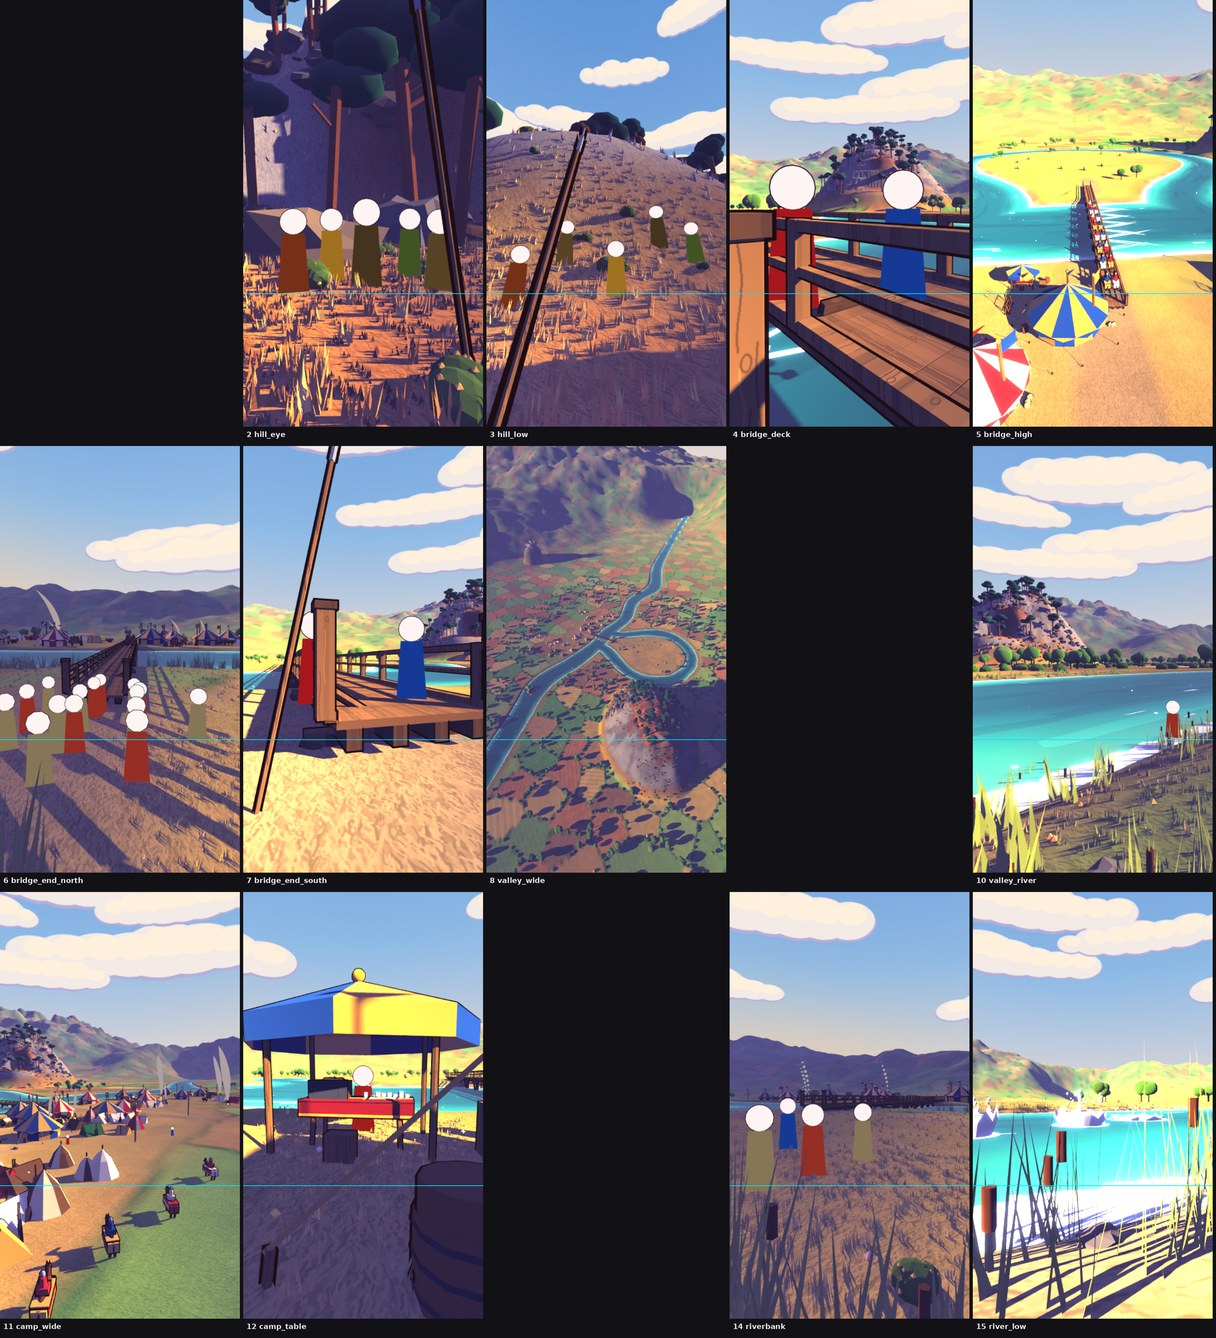
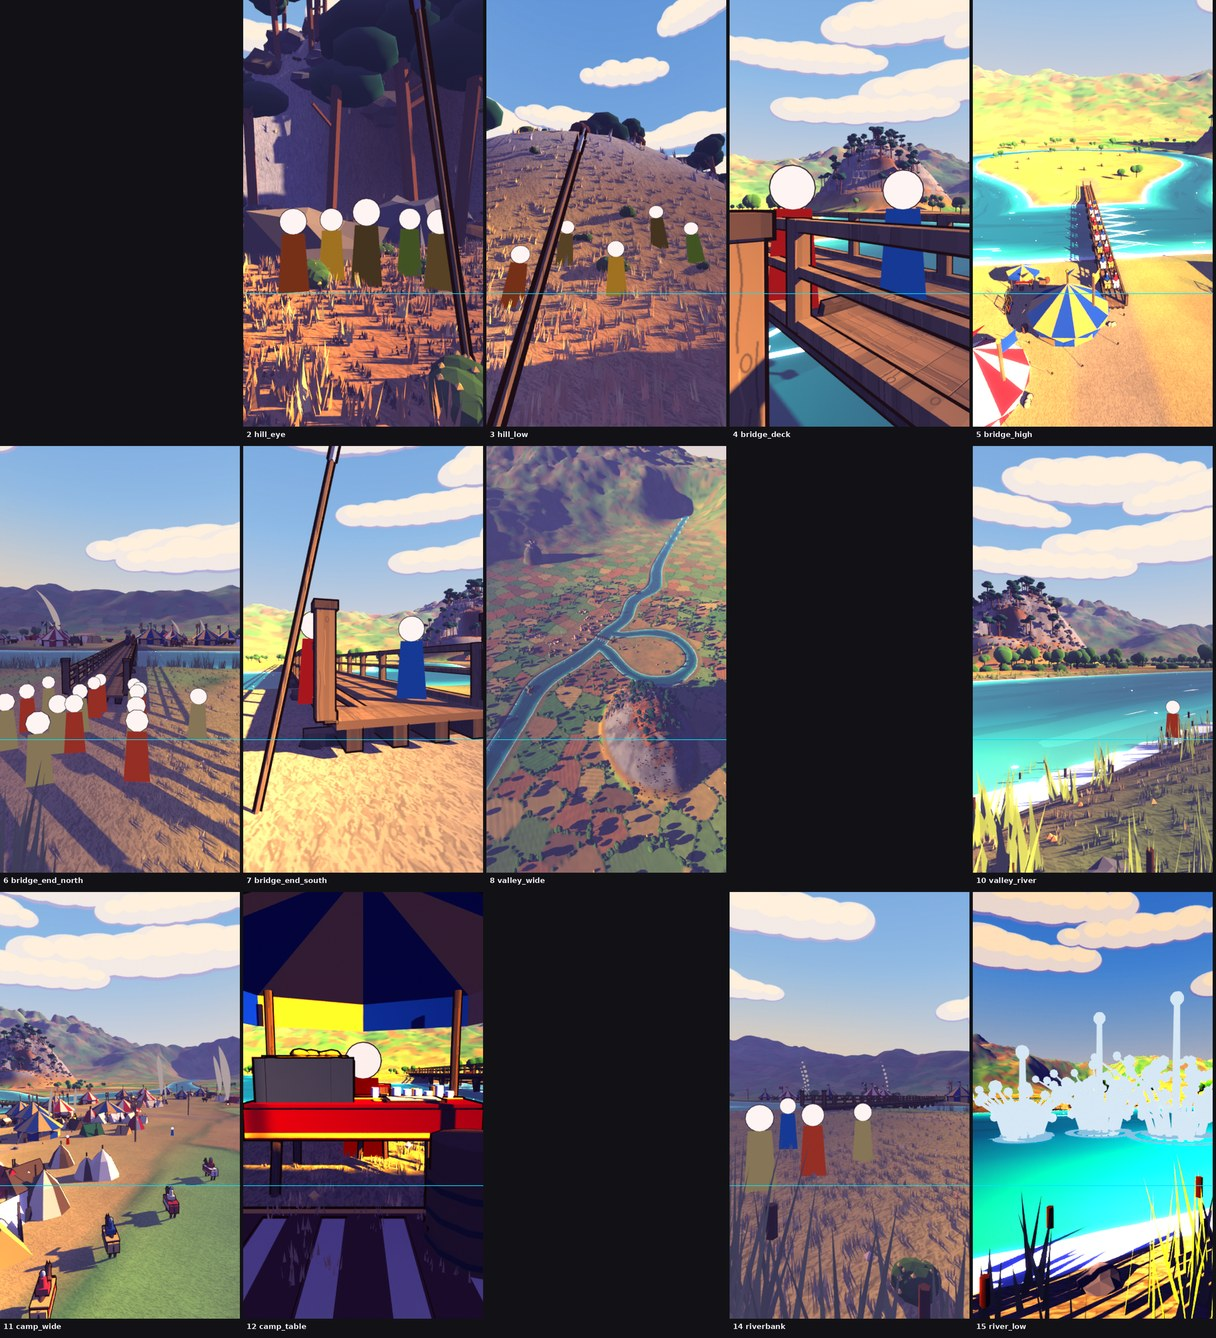
film21: set3d21 phase B WIP
Claude-Session: https://claude.ai/code/session_017iwyCsej5sN2YnHCfQQb4Y

Changed region(s): [[0.7812, 0.6435, 1.0, 1.0], [0.1875, 0.6435, 0.4062, 1.0]]

diff --git a/film/v3/set3d21/stirling.py b/film/v3/set3d21/stirling.py
@@ -987,16 +987,18 @@ def table_set(A, B, c, yaw, rs):
         # ledger (no text): cover + two pages
         B.box('leather', (0.55, -0.22, 1.012), (0.6, 0.4, 0.03)); B.box('cream', (0.42, -0.22, 1.032), (0.28, 0.36, 0.015), rot=(0, 0, 2)); B.box('cream', (0.68, -0.22, 1.032), (0.28, 0.36, 0.015), rot=(0, 0, -2))
         for i in range(5): B.box('gold', (0.55, -0.4 + i * 0.1, 0.86), (0.0, 0.0, 0.0)) if False else None
-        # canopy: four poles + a striped roof
+        # canopy: four poles + a striped roof (its own batch: the roof casts no shadow, so the table is lit)
+        Bc = Batch(34); Bc.stack[-1] = B.stack[-1].copy()
         for sx in (-1.5, 1.5):
             for sy in (-1.2, 1.2): B.rod('wood', (sx, sy, -0.1), (sx, sy, 2.6), 0.055, seg=6)
         seg = 8; r = 2.5; hz = 2.6
         for i in range(seg):
             a0 = 2 * math.pi * i / seg + math.pi / 4; a1 = 2 * math.pi * (i + 1) / seg + math.pi / 4; m = ('t_blue', 't_gold')[i % 2]
-            B.mesh(m, [(r * 1.0 * math.cos(a0) * 1.0, r * 0.82 * math.sin(a0), hz), (r * math.cos(a1), r * 0.82 * math.sin(a1), hz), (0, 0, hz + 0.9)], [(0, 1, 2)], False)
-            B.mesh(m, [(r * math.cos(a0), r * 0.82 * math.sin(a0), hz), (r * math.cos(a1), r * 0.82 * math.sin(a1), hz), (r * math.cos(a1), r * 0.82 * math.sin(a1), hz - 0.5), (r * math.cos(a0), r * 0.82 * math.sin(a0), hz - 0.5)], [(0, 1, 2, 3)], False)
-        B.sphere('gold', (0, 0, hz + 1.0), 0.14, seg=8, rings=5)
+            Bc.mesh(m, [(r * 1.0 * math.cos(a0) * 1.0, r * 0.82 * math.sin(a0), hz), (r * math.cos(a1), r * 0.82 * math.sin(a1), hz), (0, 0, hz + 0.9)], [(0, 1, 2)], False)
+            Bc.mesh(m, [(r * math.cos(a0), r * 0.82 * math.sin(a0), hz), (r * math.cos(a1), r * 0.82 * math.sin(a1), hz), (r * math.cos(a1), r * 0.82 * math.sin(a1), hz - 0.5), (r * math.cos(a0), r * 0.82 * math.sin(a0), hz - 0.5)], [(0, 1, 2, 3)], False)
+        Bc.sphere('gold', (0, 0, hz + 1.0), 0.14, seg=8, rings=5)
         with Bl.xf((0, 0, 0)): pass
+    Bc.finalize('table_canopy', shadow=False)
     # chest lid: own object, hinge at the back-top edge of the chest, open 72 degrees
     cx, cy_ = -0.62, -0.05; hp = B.wpt((cx, cy_ + 0.31, 1.47)); Bl.box('barrel', (0, -0.31, 0.045), (1.0, 0.64, 0.09)); Bl.box('iron', (0.34, -0.31, 0.055), (0.08, 0.66, 0.11)); Bl.box('iron', (-0.34, -0.31, 0.055), (0.08, 0.66, 0.11)); Bl.box('gold', (0, -0.31, 0.1), (0.8, 0.5, 0.02))
     lid = Bl.finalize('chest_lid', loc=hp)[0]; lid.rotation_euler = (math.radians(-72), 0, math.radians(yaw)); lid.rotation_mode = 'XYZ'
@@ -1120,7 +1122,7 @@ def build_camp(A, pr):
         B.rod('rope', (xs[0] - 2.6, y + 0.2, zl[0] + 1.5), (xs[-1] - 2.6, y + 0.2, zl[-1] + 1.5), 0.02, seg=3)
     # Cressingham's money table by the road, west side, facing the river
     tx, toff = -13.0, 8.5; ty = float(bank_y(tx)) - toff; tz = float(ground(tx, ty)); table_set(A, B, (tx, ty, tz), 0.0, rs); camp['table'] = (tx, ty, tz)
-    stool_p = (tx - 0.1, ty - 1.3, tz); B.box('wood', (stool_p[0], stool_p[1], tz + 0.25), (0.5, 0.4, 0.5)); B.box('wood', (tx + 2.9, ty - 0.6, tz + 0.5), (0.9, 0.6, 1.0)); barrel(B, (tx + 3.5, ty + 0.5, tz))
+    barrel(B, (tx + 3.5, ty + 0.5, tz))
     for (x, off) in [(-72, 20), (70, 26), (-104, 44), (40, 70), (96, 50)]:
         y = float(bank_y(x)) - off
         if free(x, y, 3): campfire(B, Bs, (x, y, float(ground(x, y))), rs); smoke_column(Bs, x, y, float(ground(x, y)), rs, h=24.0, r0=0.5); camp.setdefault('fires', []).append((x, y))
@@ -1556,8 +1558,8 @@ def table_extras(A, pr):
     for sgn in (-1, 1): B.box('gold', (tx + sgn * 1.7, ty - 2.0, tz + 0.03), (0.07, 2.4, 0.01))
     for i in range(6): B.box('t_cream', (tx - 1.3 + 0.52 * i, ty - 2.0, tz + 0.032), (0.2, 2.1, 0.005))
     B.finalize('table_extras')
-_mk('camp_table', loc='camp', cam=(-13.0, -30.0, 0.0), cam_dz=1.3, look=(-13.0, -26.5, 1.15), lens=22.0, sd=5.0, over=dict(_OVR), camp_fg=table_extras,
-    marks_spec=[('cress', 'cressingham', 4.0, 360)], fg_list=[('barrel', 1.8, 720), ('rope', 1.8, 20)], veg=dict(_VEG, half=22), drift='push 8 %/s; hooks: set_scale_tip(A, deg), set_chest_lid(A, deg)')
+_mk('camp_table', loc='camp', cam=(-13.0, -30.0, 0.0), cam_dz=1.3, look=(-13.0, -26.5, 1.55), lens=22.0, sd=5.0, over=dict(_OVR), camp_fg=table_extras,
+    marks_spec=[('cress', 'cressingham', 4.0, 360)], fg_list=[('barrel', 1.8, 720)], veg=dict(_VEG, half=22), drift='push 8 %/s; hooks: set_scale_tip(A, deg), set_chest_lid(A, deg)')
 _mk('riverbank', loc='riverbank', cam=(-17.0, 60.0, 0.0), cam_dz=1.8, look=(0.0, 30.0, 1.6), lens=22.0, sd=10.0, over=dict(_OVR, reed_k=0.8),
     marks_spec=[('e1', 'foot', 5.0, 90), ('e2', 'foot:foot_r', 6.0, 250), ('e3', 'foot', 7.5, 400), ('e4', 'knight:knight_b', 9.0, 175)], fg_list=[('reeds', 1.6, 640), ('reeds', 2.0, 40), ('gorse', 2.4, 560, 0.4)],
     veg=dict(_VEG, half=30, reeds=[(2, 40, 600)]), drift='slide 40 px/s + push; water on the right for the jumps (splash())')

diff --git a/film/v3/set3d21/t_hooks.py b/film/v3/set3d21/t_hooks.py
@@ -25,9 +25,9 @@ chk('flow offset moves', f0[0] != f1[0]); chk('glitter phase moves', f0[1] != f1
 be = bpy.data.objects[A['scale_beam']]; K.set_scale_tip(A, 0.0); r0 = be.rotation_euler[1]; K.set_scale_tip(A, 12.0); chk('scale tips', abs(be.rotation_euler[1] - r0) > 0.1); bv0 = verts(be); K.set_scale_tip(A, -12.0); chk('scale beam mesh moves', float(np.abs(verts(be) - bv0).max()) > 0.01)
 lid = bpy.data.objects[A['chest_lid']]; K.set_chest_lid(A, 72.0); l0 = lid.rotation_euler[0]; K.set_chest_lid(A, 0.0); chk('lid closes', abs(lid.rotation_euler[0] - l0) > 1.0); lv0 = verts(lid); K.set_chest_lid(A, 72.0); chk('lid mesh moves', float(np.abs(verts(lid) - lv0).max()) > 0.1)
 # splash: grows then falls then disappears; same name replaces
-c1 = K.splash(-34.0, 41.0, 0.3, name='t'); h1 = max(verts(o)[:, 2].max() for o in bpy.data.objects if o.name.startswith('splash_t_')); c2 = K.splash(-34.0, 41.0, 0.55, name='t')
+c1 = K.splash(-34.0, 41.0, 0.3, name='t'); h1 = max(verts(o)[:, 2].max() for o in bpy.data.objects if o.name.startswith('splash_t_')); c2 = K.splash(-34.0, 41.0, 0.75, name='t')
 h2 = max(verts(o)[:, 2].max() for o in bpy.data.objects if o.name.startswith('splash_t_')); chk('splash has parts', c1 > 0 and c2 > 0); chk('splash height changes', abs(h1 - h2) > 0.02); chk('splash replaces, not stacks', len([o for o in bpy.data.objects if o.name.startswith('splash_t_')]) == c2)
-chk('splash droplets present', any('foam' in o.name and len(o.data.polygons) > 100 for o in bpy.data.objects if o.name.startswith('splash_t_'))); chk('splash gone late', K.splash(-34.0, 41.0, 2.0, name='t') == 0 and not [o for o in bpy.data.objects if o.name.startswith('splash_t_')])
+chk('splash droplets present', any('glow_spray' in o.name and len(o.data.polygons) > 100 for o in bpy.data.objects if o.name.startswith('splash_t_'))); chk('splash gone late', K.splash(-34.0, 41.0, 2.0, name='t') == 0 and not [o for o in bpy.data.objects if o.name.startswith('splash_t_')])
 # troops by count
 got = []; i4 = K.place_troops(A, 'bridge', 4, seed=1); i10 = K.place_troops(A, 'bridge', 10, seed=1); chk('bridge count', len(i4) == 4 and len(i10) == 10)
 nb = sum(len(o.data.polygons) for o in bpy.data.objects if o.name.startswith('troops_bridge')); K.place_troops(A, 'bridge', 2, seed=1); chk('bridge horses scale with count', nb > sum(len(o.data.polygons) for o in bpy.data.objects if o.name.startswith('troops_bridge')))
